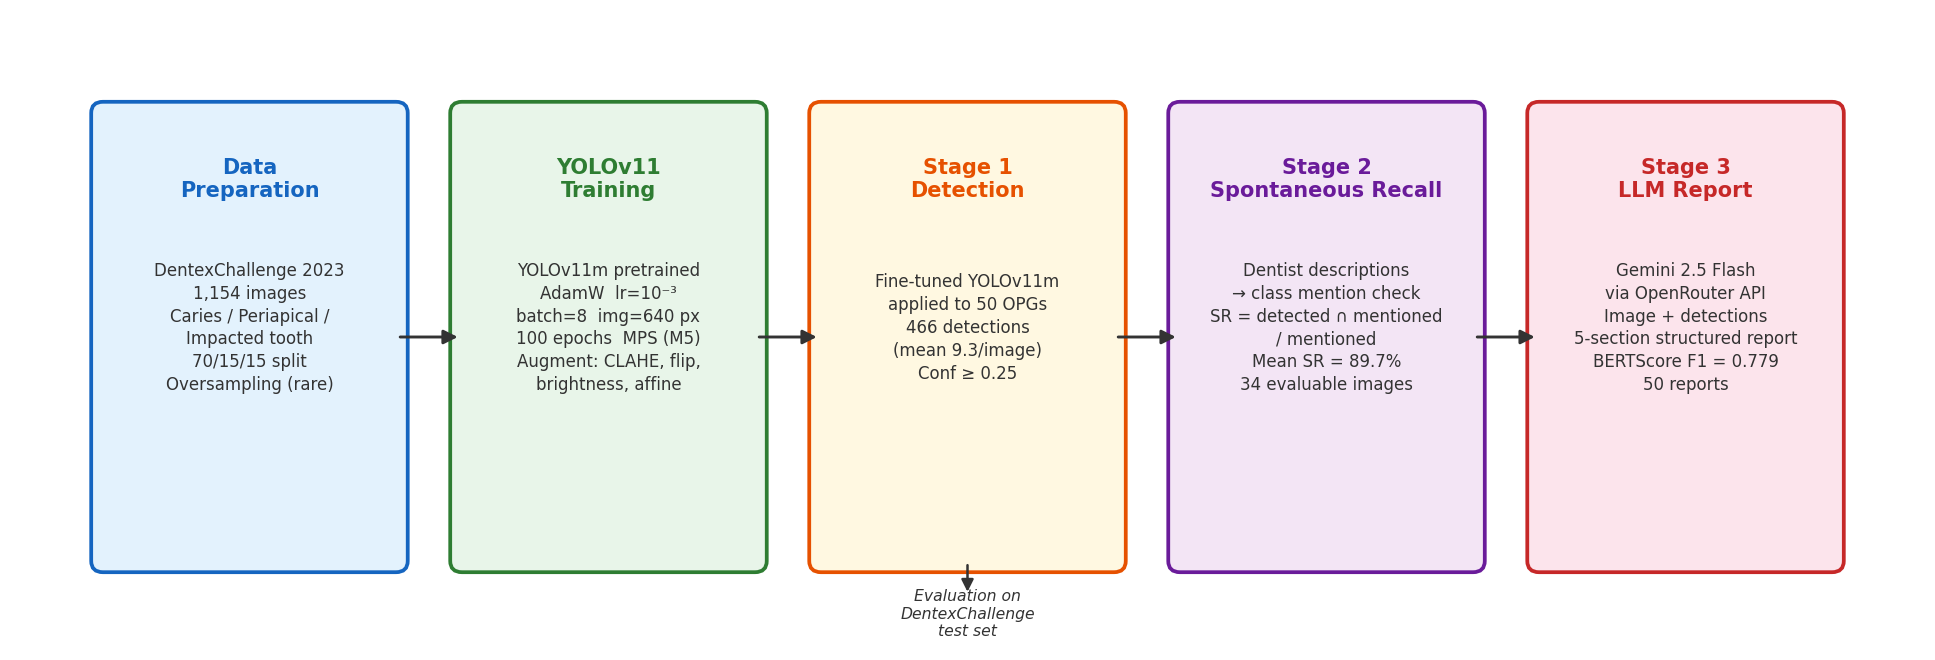
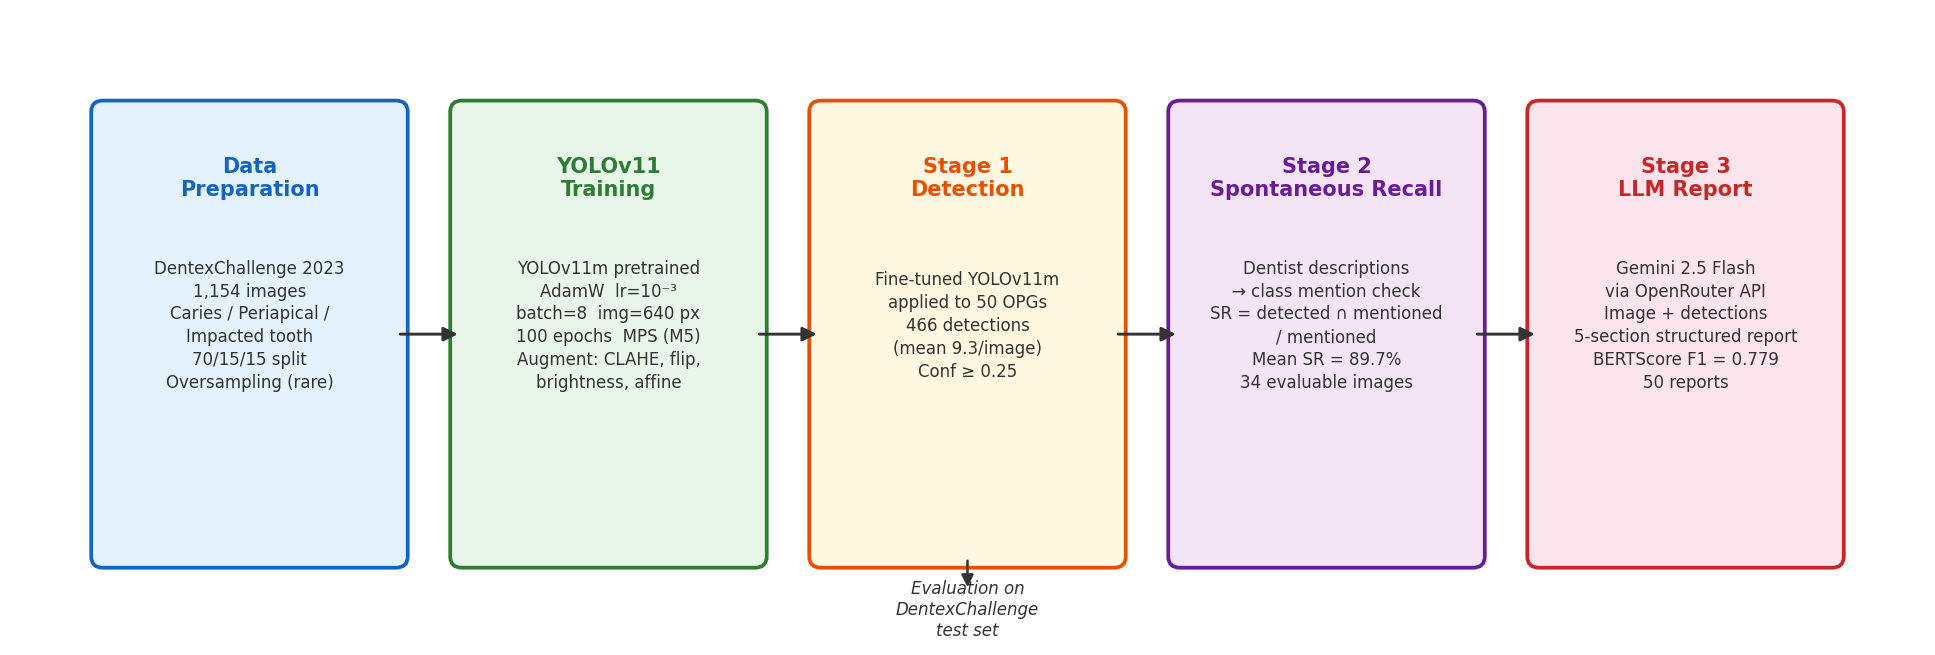
Fix duplicate figure titles and low-contrast text per reviewer feedback
Remove embedded ax.set_title from Fig. 2 (duplicated the LaTeX caption)
and bump Fig. 1's smallest annotation to 8pt per IEEE guidance.

diff --git a/src/generate_paper_figures.py b/src/generate_paper_figures.py
@@ -108,7 +108,7 @@ def fig_pipeline():
         transform=ax.transData, zorder=4,
     )
     ax.text(eval_x, 0.22, "Evaluation on\nDentexChallenge\ntest set",
-            ha="center", va="center", fontsize=7.5, color=GRAY,
+            ha="center", va="center", fontsize=8, color=GRAY,
             style="italic", transform=ax.transData)
 
     ax.set_xlim(0, 13)
@@ -216,7 +216,6 @@ def fig_model_comparison():
     ax.set_xticks(x)
     ax.set_xticklabels(classes)
     ax.set_ylabel("Average Precision @ IoU 0.5")
-    ax.set_title("Zero-shot vs fine-tuned detection (conf $\\geq$ 0.25, custom 11-pt AP)")
     ax.set_ylim(0, 1.0)
     ax.legend(frameon=False)
     ax.axvline(2.5, color="gray", lw=0.8, linestyle=":", alpha=0.5)
